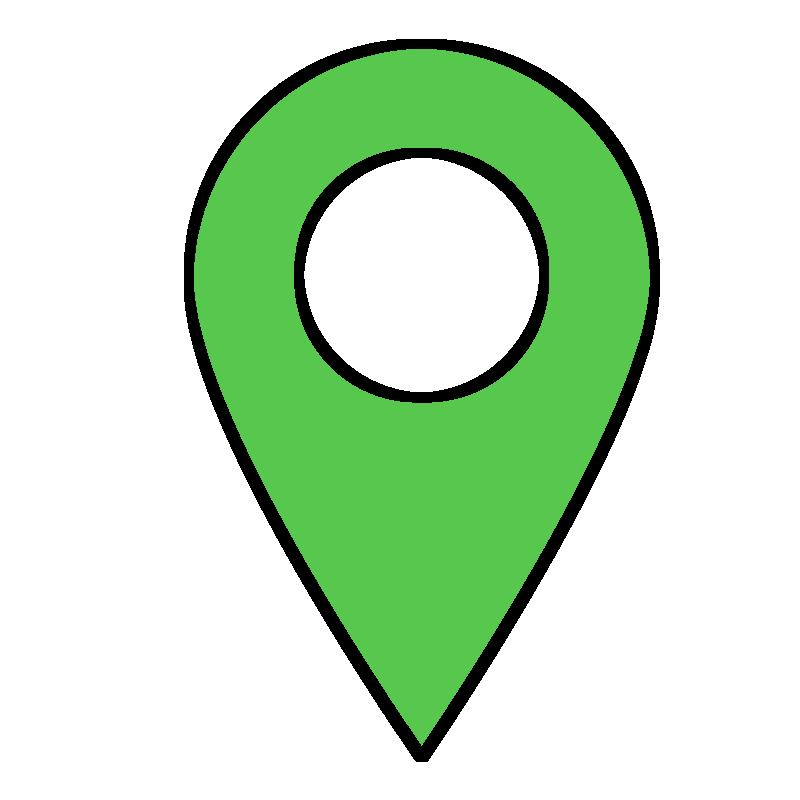
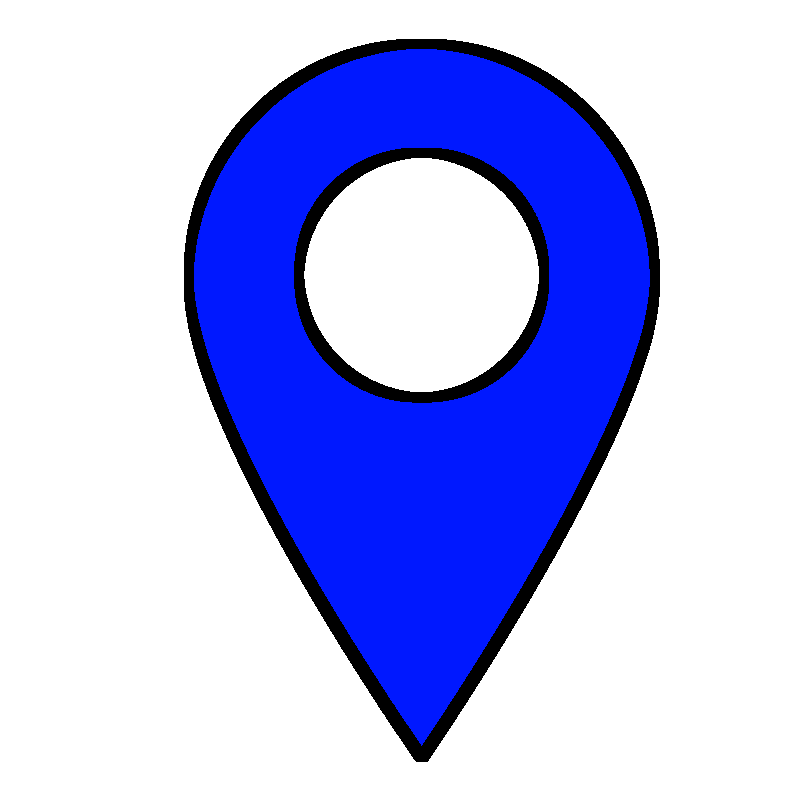
modifyed color scheme + star

Changed region(s): [[0.2188, 0.0625, 0.8125, 0.9375]]

diff --git a/recommender-front/src/utils/Icon.jsx b/recommender-front/src/utils/Icon.jsx
@@ -1,5 +1,5 @@
 import L from 'leaflet';
-import basemarker1 from '../assets/markericon/basemarker1.png';
+import basestar from '../assets/markericon/basestart.png';
 import basemarker2 from '../assets/markericon/basemarker2.png';
 import basemarker3 from '../assets/markericon/basemarker3.png';
 import basemarker4 from '../assets/markericon/basemarker4.png';
@@ -21,7 +21,7 @@ function createMarkerIcon(value) {
   const markerIcons = {
     green1: L.icon({
       ...iconOptions,
-      iconUrl: basemarker1,
+      iconUrl: basestar,
     }),
     green2: L.icon({
       ...iconOptions,
